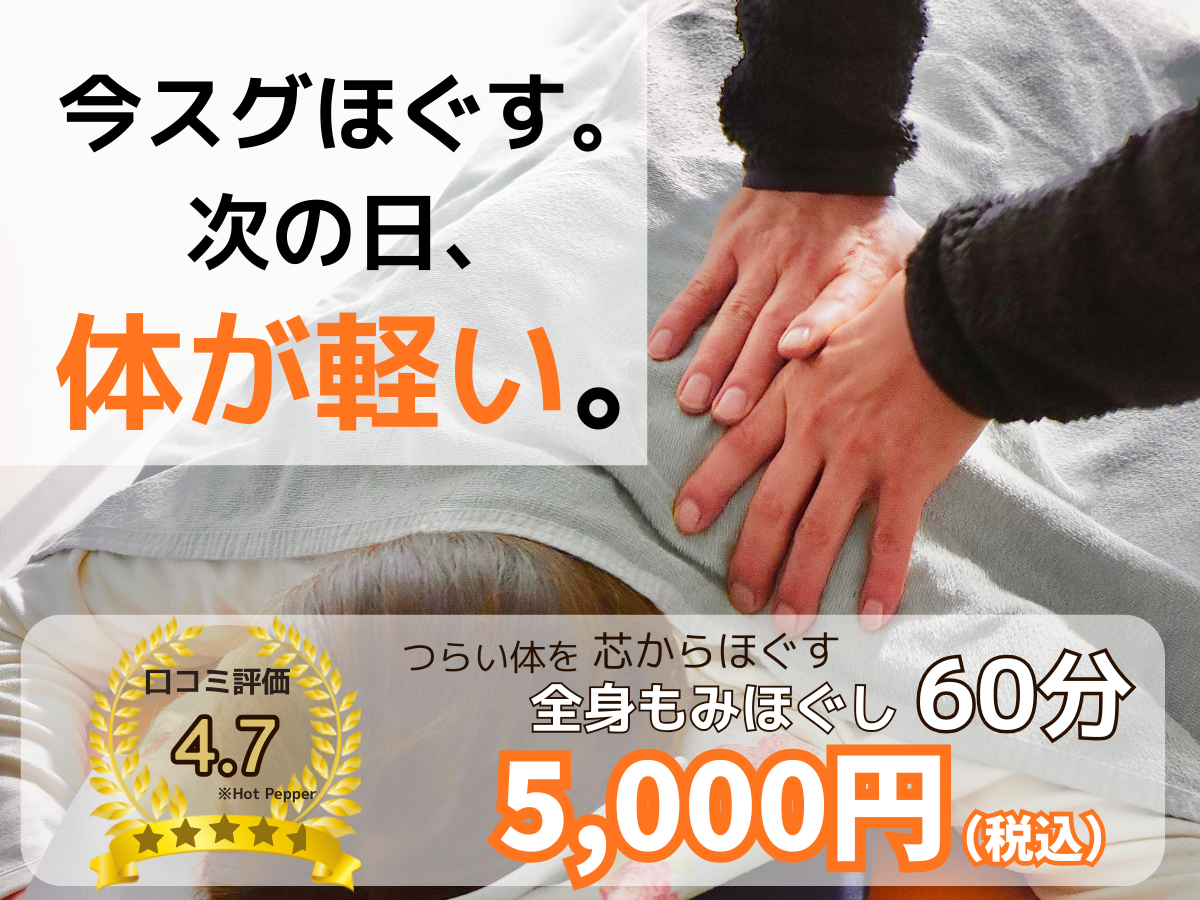
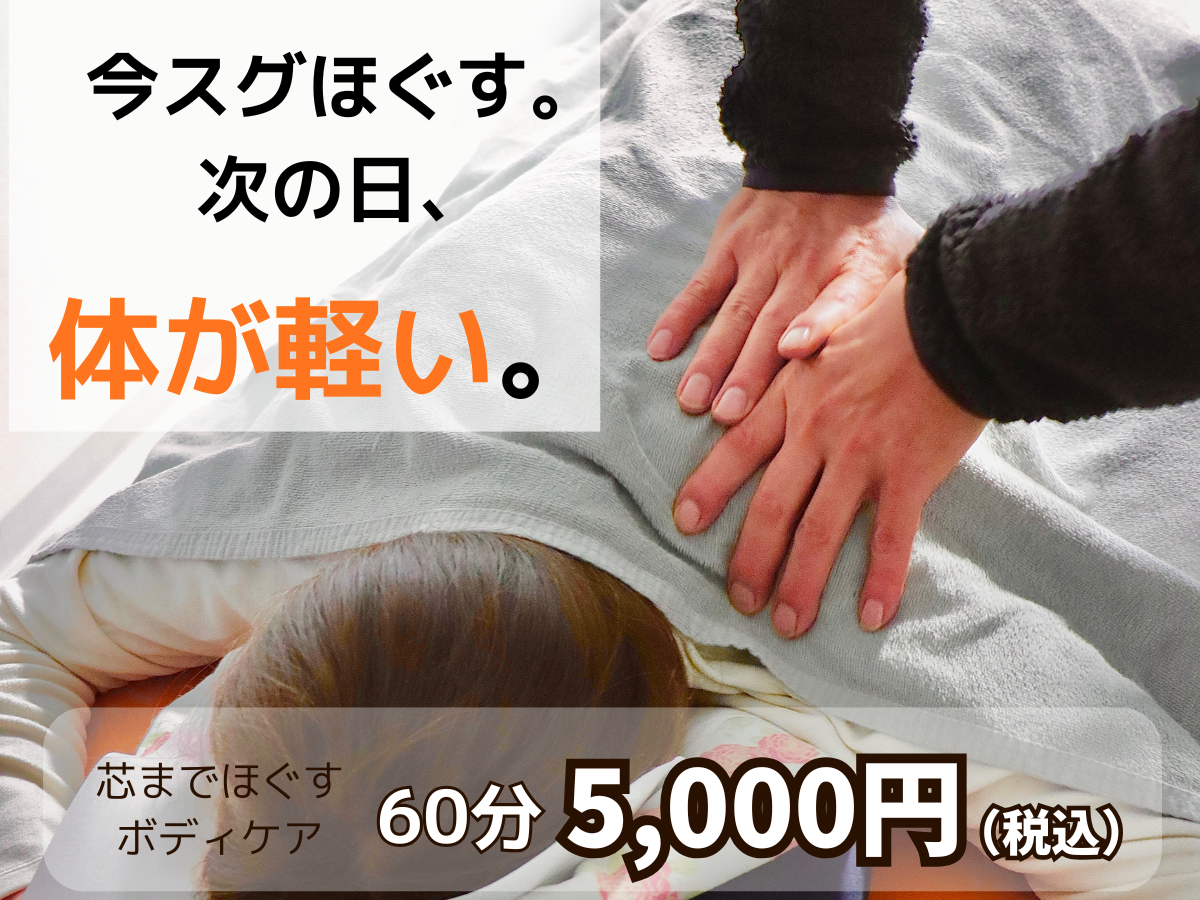
102

diff --git a/index.html b/index.html
@@ -96,7 +96,7 @@
   <div class="back" id="about">
 <div class="carousel" id="carousel">
   <div class="track">
-  <div class="slide"><img src="image/top1.webp"></div>
+  <div class="slide"><img src="image/top.webp"></div>
   <div class="slide"><img src="image/top2.JPEG"></div>
   <div class="slide"><img src="image/off.png"></div>
 </div>
@@ -110,13 +110,15 @@
 
 <div class="face">
 <h2 id="eki">阪和線　我孫子町駅・御堂筋線あびこ駅から徒歩６分</h2>
-  <h2 id="shop">長居リラクゼーション</h2>
+  <h2 id="shop">長居リラクゼーションサロン</h2>
   <div class="shop-name">
-     <img src="image/logo.webp" id="face-logo" alt="長居リラクゼーションあくあのロゴマーク">
+     <img src="image/logo.webp" id="face-logo" alt="長居リラクゼーションサロンあくあのロゴマーク">
 <h2 id="shop2">あくあ</h2>
 </div>
-  <h2 id="yoyaku">完全予約制</h2>
-  <h2 id="salon">プライベートサロン</h2>
+<div class="face-item">
+<img src="image/2.png" alt="口コミ評価4.7のバッジ" id="face-pic">
+
+  <h2 id="yoyaku">完全予約制<br>プライベートサロン</h2>
 
 </div>
 </div>

diff --git a/css/style2.css b/css/style2.css
@@ -164,12 +164,17 @@ display: flex;
   color: #111;
   text-shadow: 1px 2px 3px rgba(81, 81, 81, 0.75);
 }
+
+.face-item{
+  margin-top: 10px;
+  display: flex;
+  justify-content: center;
+}
+
 #yoyaku{
+  padding-top: 30px;
   font-family: Pretendard,monospace;
   font-size: 15px;
-  margin: 10px auto;
-  width: 120px;
-  border-bottom: solid 2px #222;
 
 }
 
@@ -177,7 +182,13 @@ display: flex;
     font-family: Pretendard,monospace;
 
 font-size: 15px;
-margin: 5px auto 20px;
+}
+
+
+#face-pic{
+  width: 100px;
+    height: auto;
+  display: block;
 }
 
 .top-section{

diff --git a/css/style.css b/css/style.css
@@ -241,9 +241,10 @@ margin: 0;
 }
 
 footer{
+	font-size: 14px;
 background-color: #ceb998;
 	color:#000000;
-	text-align: center;
+	text-align: left;
 	margin:0;
 	width: 100%;
 height: 130px;	

diff --git a/css/style4.css b/css/style4.css
@@ -131,3 +131,9 @@
   padding: 20px;
 }
 
+.access{
+  margin: 50px auto;
+  padding: 10px auto;
+      background-color: #ffffff;
+        border-radius: 10px;
+}
